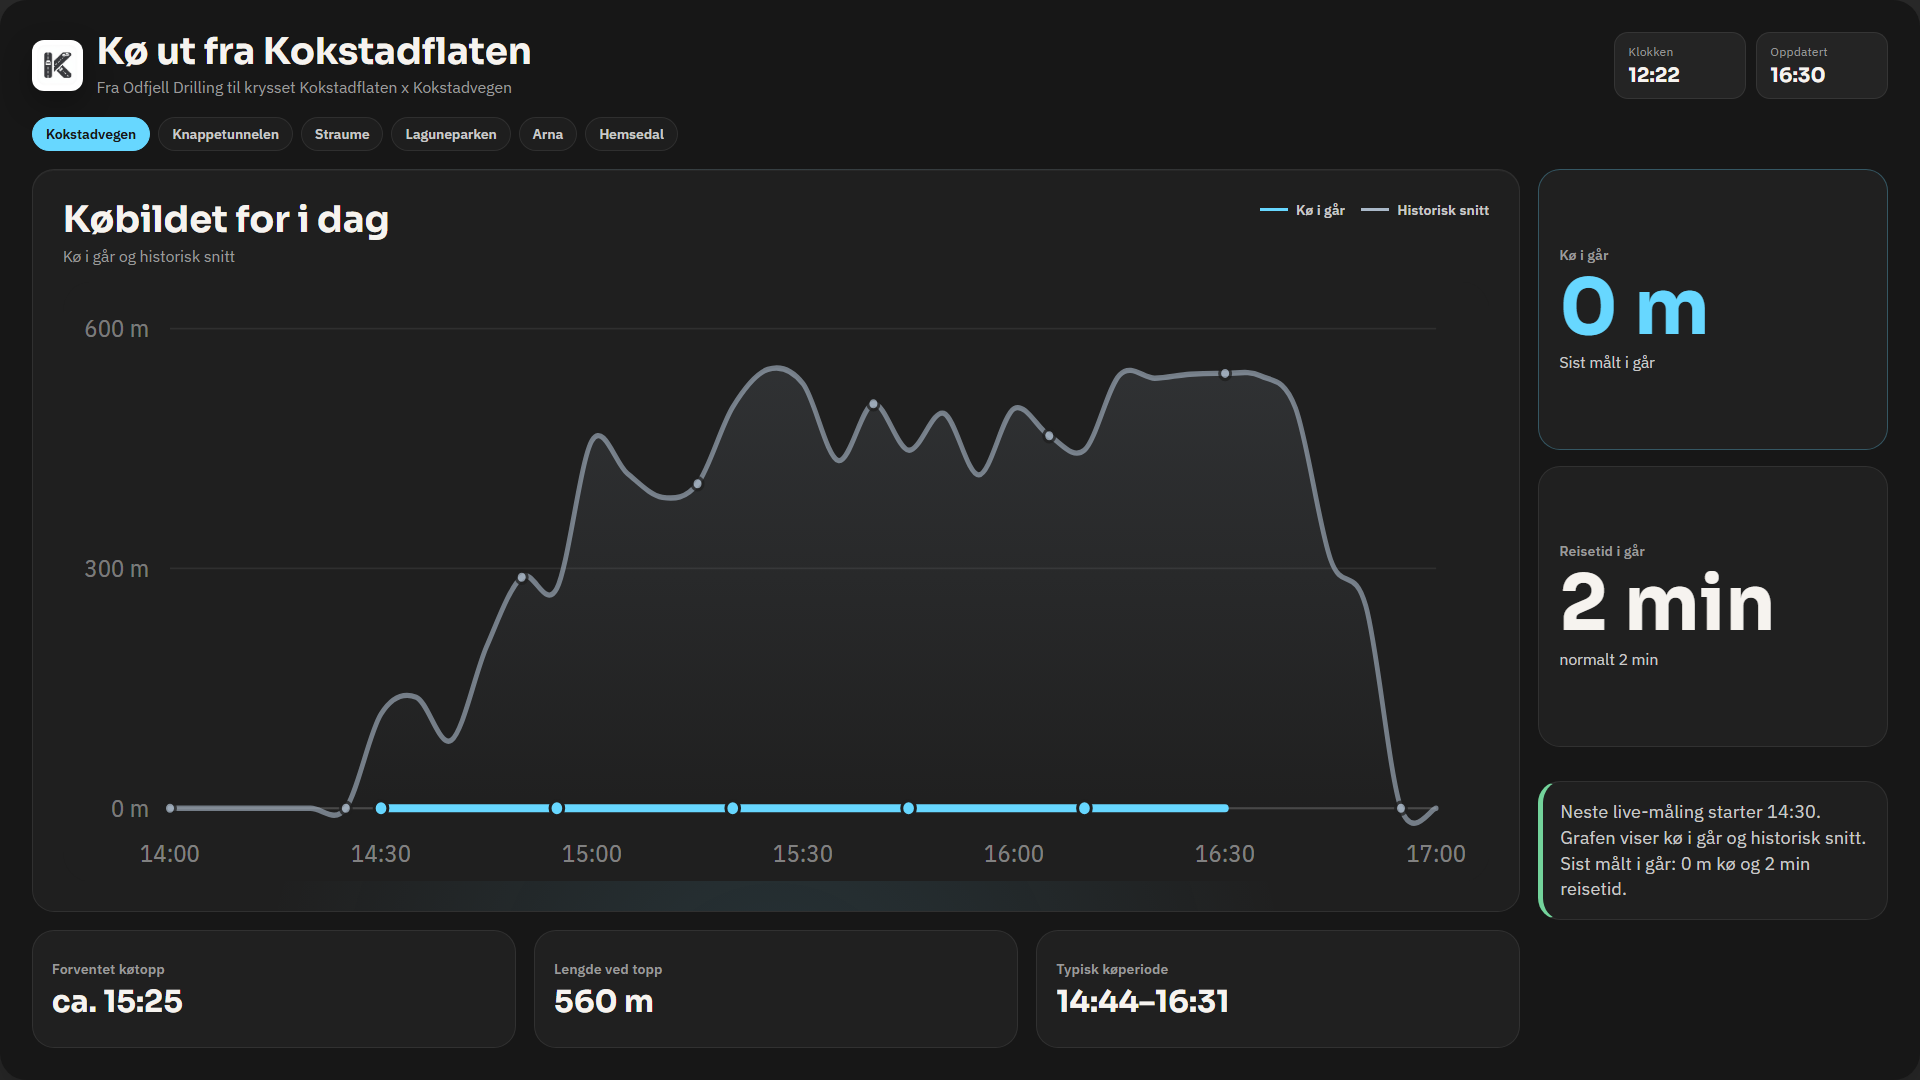
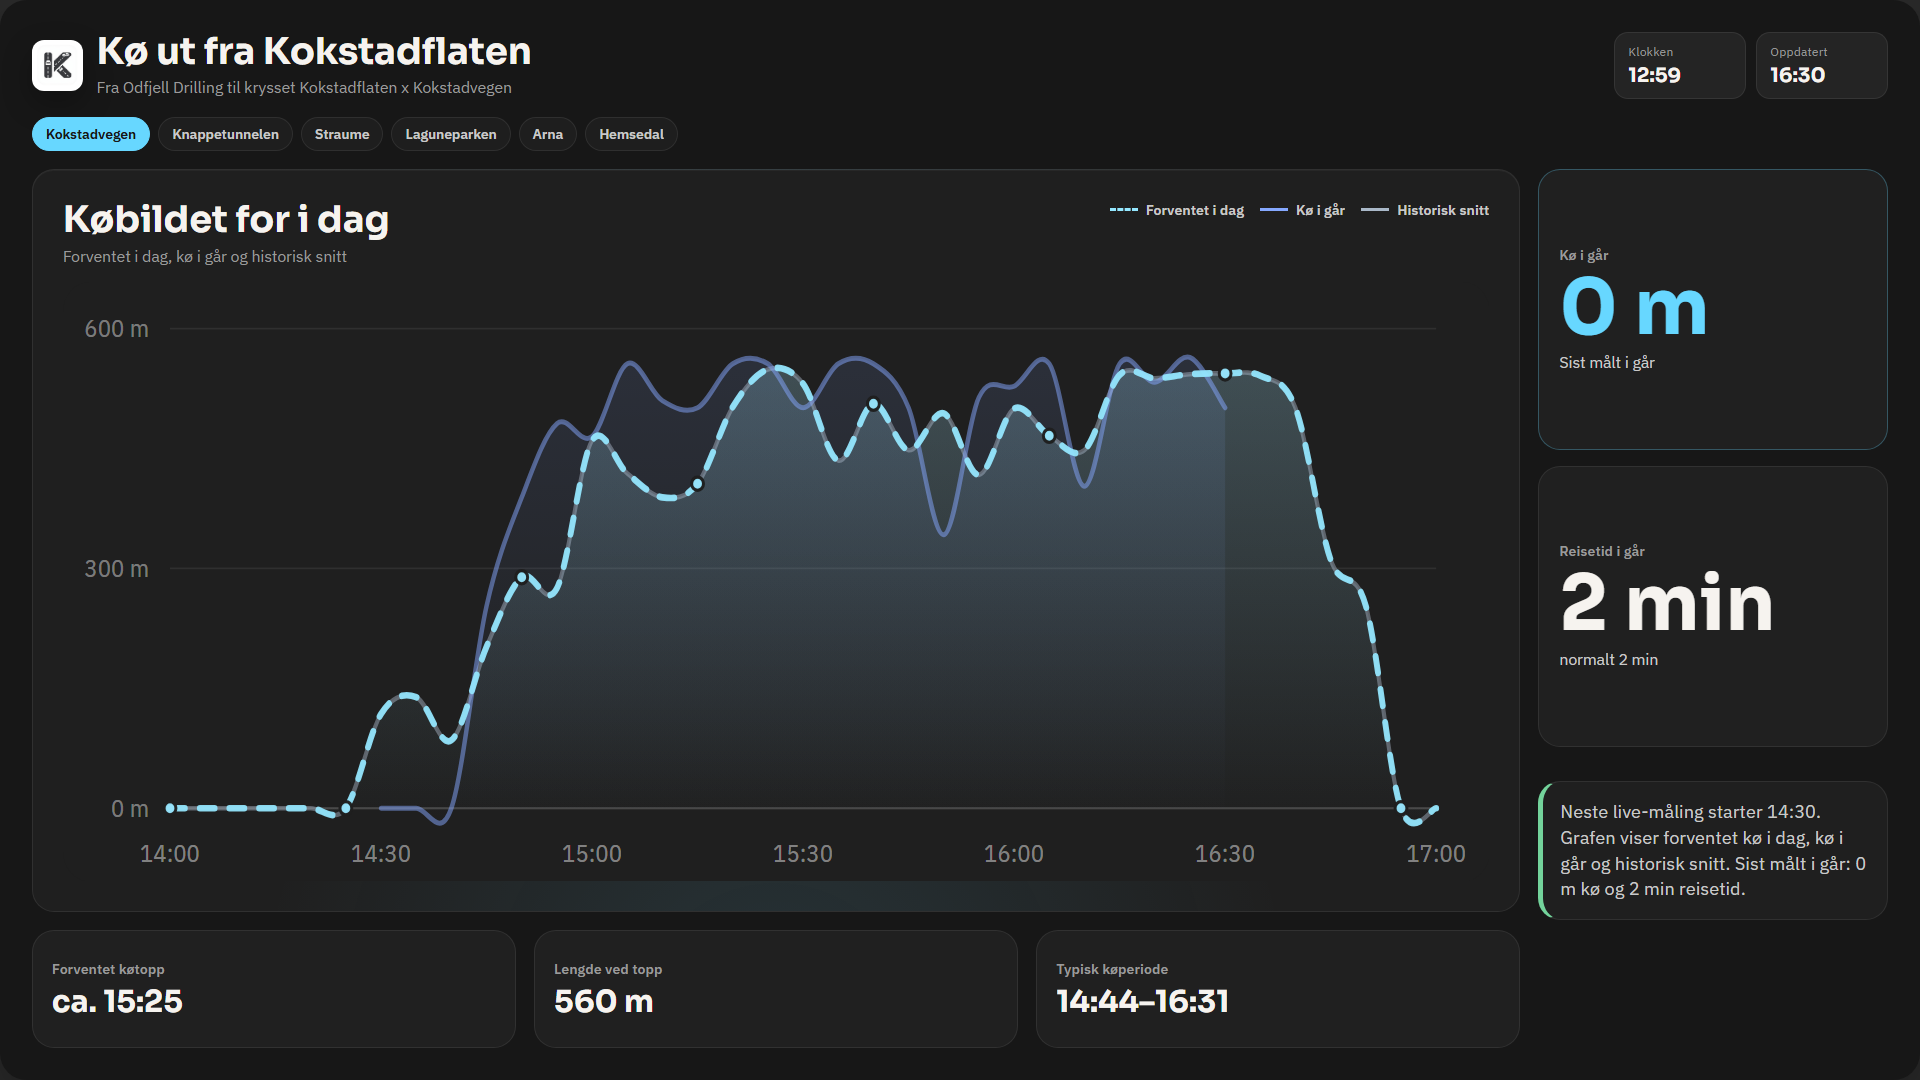
Add files via upload

diff --git a/app.js b/app.js
@@ -1,4 +1,4 @@
-const DATA_URL = "https://hfhjbbzbuzebilfuydtm.supabase.co/functions/v1/clever-api";
+const DATA_URL = "https://hfhjbbzbuzebilfuydtm.supabase.co/functions/v1/get-kokstad-dashboard";
 const ACTIVE_TAB_STORAGE_KEY = "kokstadDashboardActiveTab";
 const ONE_MINUTE_MS = 60 * 1000;
 const LIVE_START_MINUTES = 14 * 60 + 30;
@@ -28,6 +28,7 @@ const elements = {
   delayChart: document.getElementById("delayChart"),
   actualLegendLabel: document.getElementById("actualLegendLabel"),
   expectedLegendLabel: document.getElementById("expectedLegendLabel"),
+  yesterdayLegendLabel: document.getElementById("yesterdayLegendLabel"),
   historyLegendLabel: document.getElementById("historyLegendLabel"),
   expectedPeakTimeValue: document.getElementById("expectedPeakTimeValue"),
   expectedPeakLengthValue: document.getElementById("expectedPeakLengthValue"),
@@ -272,9 +273,9 @@ function buildStatusSentence(snapshot, thresholds, context) {
   if (!context?.isSameDay) {
     const measuredWhen = context?.dataAgeDays === 1 ? "i går" : "sist";
     if (context?.hasLiveWindowStarted) {
-      return `Live-måling er startet. Venter på første oppdatering fra dagens trafikk. Grafen viser ${context?.actualLabel.toLowerCase() ?? "siste målte kø"} og historisk snitt til ny måling kommer. Sist målt ${measuredWhen}: ${formatMeters(queueMeters)} kø og ${durationText} reisetid.`;
+      return `Live-måling er startet. Venter på første oppdatering fra dagens trafikk. Grafen viser forventet kø videre, ${context?.actualLabel.toLowerCase() ?? "siste målte kø"} og historisk snitt til ny måling kommer. Sist målt ${measuredWhen}: ${formatMeters(queueMeters)} kø og ${durationText} reisetid.`;
     }
-    return `Neste live-måling starter 14:30. Grafen viser ${context?.actualLabel.toLowerCase() ?? "siste målte kø"} og historisk snitt. Sist målt ${measuredWhen}: ${formatMeters(queueMeters)} kø og ${durationText} reisetid.`;
+    return `Neste live-måling starter 14:30. Grafen viser forventet kø i dag, ${context?.actualLabel.toLowerCase() ?? "siste målte kø"} og historisk snitt. Sist målt ${measuredWhen}: ${formatMeters(queueMeters)} kø og ${durationText} reisetid.`;
   }
 
   if (context?.isEvening) {
@@ -386,7 +387,11 @@ function renderCurrentStatus(route) {
       ? `Sist målt ${context.dataAgeDays === 1 ? "i går" : `kl. ${formatTime(context.updatedDate)}`}`
       : info.label
     : "Venter på data";
-  elements.statusSentence.textContent = buildStatusSentence(snapshot, thresholds, context);
+  const weatherComment = route?.forecastToday?.weatherComment ?? route?.weatherInsight?.comment;
+  elements.statusSentence.textContent = [
+    buildStatusSentence(snapshot, thresholds, context),
+    weatherComment,
+  ].filter(Boolean).join(" ");
   document.body.dataset.severity = snapshot ? info.key : "UNKNOWN";
 }
 
@@ -425,6 +430,9 @@ function getChart(route) {
   return {
     slots,
     today: (chart.today ?? fallbackRecent).map((point, index) => normalizeSeriesPoint(point, index, slots)).filter(Boolean),
+    forecastToday: (chart.forecastToday ?? chart.forecast_today ?? chart.forecast ?? chart.average ?? [])
+      .map((point, index) => normalizeSeriesPoint(point, index, slots))
+      .filter(Boolean),
     average: (chart.average ?? chart.forecast ?? []).map((point, index) => normalizeSeriesPoint(point, index, slots)).filter(Boolean),
     yesterday: (chart.yesterday ?? []).map((point, index) => normalizeSeriesPoint(point, index, slots)).filter(Boolean),
   };
@@ -527,28 +535,35 @@ function renderQueueChart(route) {
   const slots = chart.slots;
   const context = getDashboardDayContext(route);
   const showToday = context.isSameDay && context.hasLiveWindowStarted;
-  const visibleToday = !context.hasLiveWindowStarted && context.isSameDay && chart.yesterday.length ? chart.yesterday : chart.today;
+  const nowIndex = context.showMarker ? currentSlotIndex(slots, route?.updatedAt ?? state.payload?.updatedAt) : null;
+  const actualToday = showToday
+    ? chart.today.filter((point) => nowIndex === null || point.index <= nowIndex)
+    : [];
+  const forecastSource = chart.forecastToday.length ? chart.forecastToday : chart.average;
+  const visibleForecast = forecastSource.filter((point) => !showToday || nowIndex === null || point.index >= nowIndex);
   const visibleAverage = chart.average;
-  const visibleYesterday = showToday ? chart.yesterday : [];
+  const visibleYesterday = chart.yesterday;
+  const showActualLegend = actualToday.length > 0;
 
   elements.chartTitle.textContent = "Købildet for i dag";
   elements.chartSubtitle.textContent =
     showToday
-      ? "I dag, i går og historisk snitt"
-      : "Kø i går og historisk snitt";
-  elements.actualLegendLabel.textContent = showToday ? "I dag" : "Kø i går";
-  elements.expectedLegendLabel.textContent = "Historisk snitt";
-  elements.historyLegendLabel.textContent = showToday ? "I går" : "";
-  elements.historyLegendLabel.parentElement.style.display = showToday ? "inline-flex" : "none";
+      ? "Faktisk nå, forventet videre, i går og historisk snitt"
+      : "Forventet i dag, kø i går og historisk snitt";
+  elements.actualLegendLabel.textContent = "Faktisk i dag";
+  elements.expectedLegendLabel.textContent = "Forventet i dag";
+  elements.yesterdayLegendLabel.textContent = "Kø i går";
+  elements.historyLegendLabel.textContent = "Historisk snitt";
+  elements.actualLegendLabel.parentElement.style.display = showActualLegend ? "inline-flex" : "none";
 
-  if (!slots.length || (!visibleToday.length && !visibleAverage.length && !visibleYesterday.length)) {
+  if (!slots.length || (!actualToday.length && !visibleForecast.length && !visibleAverage.length && !visibleYesterday.length)) {
     svg.innerHTML = `
       <text x="48" y="78" fill="#637381" font-size="22" font-family="IBM Plex Sans, Arial">Venter på data</text>
     `;
     return;
   }
 
-  const allValues = [...visibleToday, ...visibleAverage, ...visibleYesterday].map((point) => point.queueLengthMeters);
+  const allValues = [...actualToday, ...visibleForecast, ...visibleAverage, ...visibleYesterday].map((point) => point.queueLengthMeters);
   const maxValue = Math.max(40, ...allValues);
   const step = niceQueueStep(maxValue);
   const maxQueue = Math.ceil(maxValue / step) * step;
@@ -562,8 +577,7 @@ function renderQueueChart(route) {
     .filter(({ slot }, index) => index === 0 || index === slots.length - 1 || String(slot).endsWith(":00") || String(slot).endsWith(":30"))
     .map(({ index }) => index);
   const uniqueLabelIndexes = [...new Set(labelIndexes)].filter((index, listIndex, list) => listIndex === 0 || index - list[listIndex - 1] > 1);
-  const nowIndex = context.showMarker ? currentSlotIndex(slots, route?.updatedAt ?? state.payload?.updatedAt) : null;
-  const todayAtNow = visibleToday.find((point) => point.index === nowIndex);
+  const todayAtNow = actualToday.find((point) => point.index === nowIndex);
 
   const grid = tickValues
     .map((value) => `
@@ -591,7 +605,8 @@ function renderQueueChart(route) {
         }
       `
       : "";
-  const todayPath = smoothPathFor(visibleToday, x, y);
+  const actualPath = smoothPathFor(actualToday, x, y);
+  const forecastPath = smoothPathFor(visibleForecast, x, y);
   const averagePath = smoothPathFor(visibleAverage, x, y);
   const yesterdayPath = smoothPathFor(visibleYesterday, x, y);
   const baseline = height - padding.bottom;
@@ -601,6 +616,10 @@ function renderQueueChart(route) {
       <linearGradient id="todayArea" x1="0" y1="0" x2="0" y2="1">
         <stop offset="0%" stop-color="#67d7ff" stop-opacity="0.26" />
         <stop offset="100%" stop-color="#67d7ff" stop-opacity="0" />
+      </linearGradient>
+      <linearGradient id="forecastArea" x1="0" y1="0" x2="0" y2="1">
+        <stop offset="0%" stop-color="#94e7ff" stop-opacity="0.16" />
+        <stop offset="100%" stop-color="#94e7ff" stop-opacity="0" />
       </linearGradient>
       <linearGradient id="averageArea" x1="0" y1="0" x2="0" y2="1">
         <stop offset="0%" stop-color="#a9b8c8" stop-opacity="0.12" />
@@ -614,17 +633,23 @@ function renderQueueChart(route) {
     <rect x="0" y="0" width="${width}" height="${height}" rx="18" fill="#1f1f1f" />
     ${grid}
     <line x1="${padding.left}" y1="${height - padding.bottom}" x2="${width - padding.right}" y2="${height - padding.bottom}" stroke="rgba(255,255,255,0.12)" stroke-width="1.5" />
-    ${visibleYesterday.length ? `<path d="${areaPathFor(visibleYesterday, x, y, baseline)}" fill="url(#historyArea)" />` : ""}
     ${visibleAverage.length ? `<path d="${areaPathFor(visibleAverage, x, y, baseline)}" fill="url(#averageArea)" />` : ""}
-    ${visibleToday.length ? `<path d="${areaPathFor(visibleToday, x, y, baseline)}" fill="url(#todayArea)" />` : ""}
+    ${visibleYesterday.length ? `<path d="${areaPathFor(visibleYesterday, x, y, baseline)}" fill="url(#historyArea)" />` : ""}
+    ${visibleForecast.length ? `<path d="${areaPathFor(visibleForecast, x, y, baseline)}" fill="url(#forecastArea)" />` : ""}
+    ${actualToday.length ? `<path d="${areaPathFor(actualToday, x, y, baseline)}" fill="url(#todayArea)" />` : ""}
+    ${averagePath ? `<path d="${averagePath}" fill="none" stroke="#a9b8c8" stroke-width="2.8" stroke-linejoin="round" stroke-linecap="round" opacity="0.46" />` : ""}
     ${yesterdayPath ? `<path d="${yesterdayPath}" fill="none" stroke="#85a8ff" stroke-width="3" stroke-linejoin="round" stroke-linecap="round" opacity="0.5" />` : ""}
-    ${averagePath ? `<path d="${averagePath}" fill="none" stroke="#a9b8c8" stroke-width="3.2" stroke-linejoin="round" stroke-linecap="round" opacity="0.62" />` : ""}
-    ${todayPath ? `<path d="${todayPath}" fill="none" stroke="#67d7ff" stroke-width="4.8" stroke-linejoin="round" stroke-linecap="round" />` : ""}
+    ${forecastPath ? `<path d="${forecastPath}" fill="none" stroke="#94e7ff" stroke-width="4" stroke-dasharray="10 10" stroke-linejoin="round" stroke-linecap="round" opacity="0.92" />` : ""}
+    ${actualPath ? `<path d="${actualPath}" fill="none" stroke="#67d7ff" stroke-width="5" stroke-linejoin="round" stroke-linecap="round" />` : ""}
     ${visibleAverage
       .filter((_, index) => index % 5 === 0)
       .map((point) => `<circle cx="${x(point.index)}" cy="${y(point.queueLengthMeters)}" r="3.7" fill="#a9b8c8" stroke="#1f1f1f" stroke-width="2" opacity="0.76" />`)
       .join("")}
-    ${visibleToday
+    ${visibleForecast
+      .filter((_, index) => index % 5 === 0)
+      .map((point) => `<circle cx="${x(point.index)}" cy="${y(point.queueLengthMeters)}" r="4" fill="#94e7ff" stroke="#1f1f1f" stroke-width="2" opacity="0.88" />`)
+      .join("")}
+    ${actualToday
       .filter((_, index) => index % 5 === 0)
       .map((point) => `<circle cx="${x(point.index)}" cy="${y(point.queueLengthMeters)}" r="4.6" fill="#67d7ff" stroke="#1f1f1f" stroke-width="2" />`)
       .join("")}

diff --git a/index.html b/index.html
@@ -62,8 +62,9 @@
             <p id="chartSubtitle">Kølengde i meter gjennom ettermiddagen</p>
           </div>
           <div class="chart-legend" aria-label="Forklaring">
-            <span><i class="legend-line legend-today"></i><span id="actualLegendLabel">Kø i dag</span></span>
+            <span><i class="legend-line legend-actual"></i><span id="actualLegendLabel">Faktisk i dag</span></span>
             <span><i class="legend-line legend-expected"></i><span id="expectedLegendLabel">Forventet i dag</span></span>
+            <span><i class="legend-line legend-yesterday"></i><span id="yesterdayLegendLabel">Kø i går</span></span>
             <span><i class="legend-line legend-history"></i><span id="historyLegendLabel">Historisk snitt</span></span>
           </div>
         </div>

diff --git a/styles.css b/styles.css
@@ -250,16 +250,21 @@ h1 {
   border-top: 3px solid currentColor;
 }
 
-.legend-today {
+.legend-actual {
   color: var(--brand);
 }
 
 .legend-expected {
-  color: #a9b8c8;
+  color: #94e7ff;
+  border-top-style: dashed;
+}
+
+.legend-yesterday {
+  color: var(--accent);
 }
 
 .legend-history {
-  color: var(--accent);
+  color: #a9b8c8;
 }
 
 .chart {
